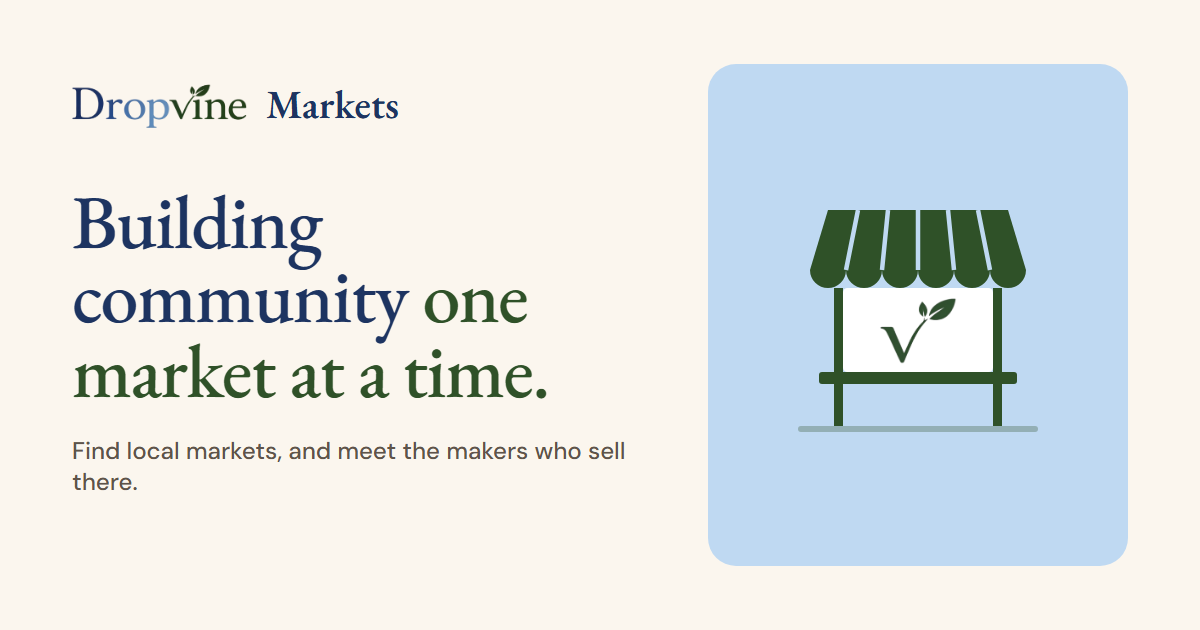
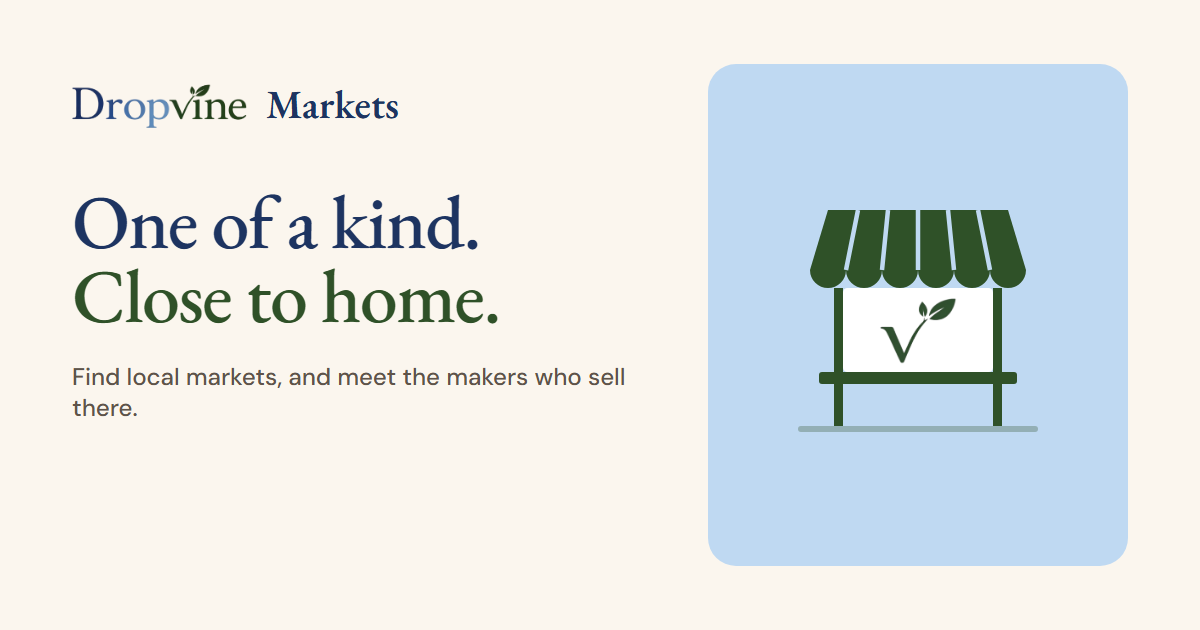
change hero headline

diff --git a/src/app/(site)/page.tsx b/src/app/(site)/page.tsx
@@ -116,7 +116,7 @@ export default async function Home() {
         <div className="mx-auto grid max-w-[1296px] gap-10 lg:grid-cols-2 lg:items-center lg:gap-14">
           <div>
             <h1 className="font-serif text-[50px] leading-[0.98] font-medium tracking-[-1px] text-navy sm:text-[80px] sm:tracking-[-1.5px]">
-              Building community <span className="text-forest">one market at a time.</span>
+              One of a kind. <span className="block text-forest">Close to home.</span>
             </h1>
             <p className="mt-6 max-w-[440px] text-xl leading-normal text-ink-muted">Find local markets, and meet the makers who sell there.</p>
             <a href="#markets" className={`mt-8 ${primaryButtonClass}`}>Find a market</a>

diff --git a/src/lib/image-url.ts b/src/lib/image-url.ts
@@ -2,7 +2,7 @@ export const defaultShareImage = {
   url: "/brand/og-default.png",
   width: 1200,
   height: 630,
-  alt: "Dropvine Markets: building community one market at a time.",
+  alt: "Dropvine Markets: One of a kind. Close to home.",
 };
 
 const imageExtension = /\.(avif|gif|jpe?g|png|webp)$/i;
